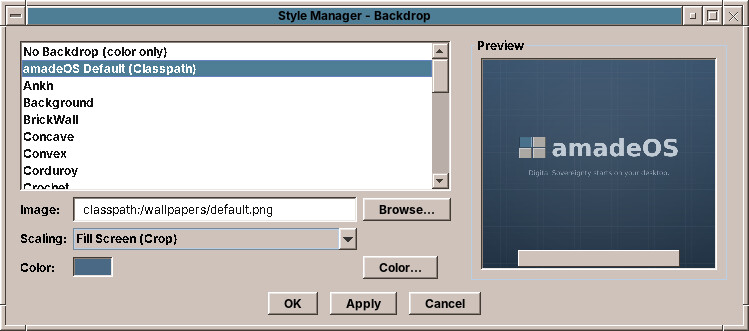
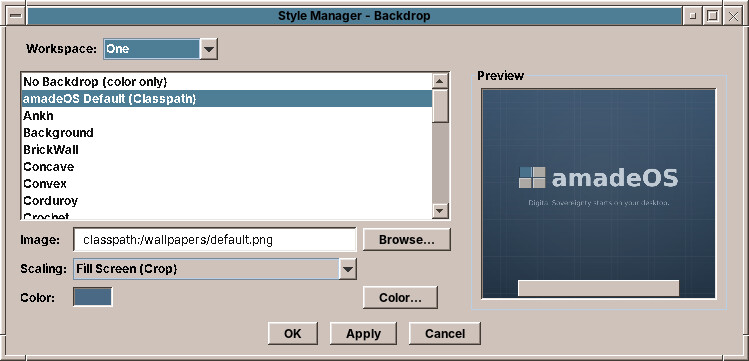
User's Handbook: renaming workspaces and a backdrop for each
Chapter 24 explains renaming a workspace (a second click on the
current workspace's button, as in CDE, or Rename in its menu), with a
new picture; chapter 32 the Workspace choice of the Backdrop control,
with a new picture of it. Chapters 22, A, C and D follow, and the
screenshot script takes the new picture.

Claude-Session: https://claude.ai/code/session_01UdQEzRAVpCUif6TmDMhSfb

diff --git a/docs/handbook/chapters/24-workspaces-and-menu.md b/docs/handbook/chapters/24-workspaces-and-menu.md
@@ -2,16 +2,33 @@
 
 ## Four workspaces
 
-amadeOS has four **workspaces**, four desktops side by side, called *One*, *Two*, *Three* and *Four*. Each holds its own windows. You might keep your mail and calendar in *One*, a letter you are writing in *Two* and a game in *Four*, and switch between them without moving a single window.
+amadeOS has four **workspaces**, four desktops side by side, called *One*, *Two*, *Three* and *Four* until you give them names of your own. Each holds its own windows and can have its own backdrop. You might keep your mail and calendar in *One*, a letter you are writing in *Two* and a game in *Four*, and switch between them without moving a single window.
 
 The four buttons in the middle of the Front Panel switch between the workspaces. Each has its own colour from the palette, and the button of the current workspace is pressed in. A new window opens in the workspace you are in.
 
 ![Workspace Two, still empty, with the windows of workspace One out of sight](images/24/workspace-two.jpg)
 
-The Front Panel and the backdrop are the same on all workspaces; only the windows change.
+The Front Panel is the same on all workspaces. The backdrop is too, until you give a workspace one of its own in the Style Manager (chapter 32): then switching to that workspace changes the backdrop with the windows.
+
+## Naming a workspace
+
+A name such as *Mail* or *Letters* tells you better than *Two* what a workspace is for. To rename one:
+
+1. Click its button, so that it is the current workspace.
+2. Click the button again. It turns into a text field with the old name selected.
+3. Type the new name and press ++enter++.
+
+![Renaming workspace Two: the button has become a text field](images/24/workspace-rename.jpg)
+
+A double click on any workspace button does both clicks at once. You can also click the **right mouse button** on a workspace button and choose **Rename**.
+
+++escape++ keeps the old name. An empty name gives the workspace back its own name, *One* to *Four* in the language of the desktop. A name can be up to 24 characters long; when it is wider than the button, the button shows its beginning with "…", and the tooltip shows it in full. The Workspace Menu (below) and the Style Manager's Backdrop control use the new names too.
 
 !!! cde "CDE heritage"
-    CDE gave every workspace its own colour from the palette, so you always see where you are; amadeOS keeps that. In CDE the workspace buttons could be renamed and their number changed; amadeOS has four fixed ones for now.
+    CDE gave every workspace its own colour from the palette, so you always see where you are; amadeOS keeps that. Renaming works as in CDE: click the current workspace's button, type, press Return. Each workspace can also have its own backdrop, as in CDE. CDE could also change the number of workspaces; amadeOS has four for now.
+
+??? hood "Under the hood"
+    The names are kept in `~/.config/amadeos/workspaces.conf` (`workspace.2.name=Letters`); only workspaces you renamed are listed there. The Front Panel publishes all four names in the root window's `_NET_DESKTOP_NAMES` property, the standard place where the window manager and other programs look for them.
 
 !!! planned "Planned"
     There is no menu entry or key yet to move a window to another workspace or to show it on all of them. A window stays in the workspace where it was opened, unless the program itself asks for another one.
@@ -26,7 +43,7 @@ Click the **right mouse button on the backdrop** to open the Workspace Menu.
 |---|---|
 | **Programs** | All installed programs, sorted by kind, the same ones as in the drawers. |
 | **New Window** | A *Terminal Emulator*, the *Text Editor* or a *File Manager* window with your home folder. |
-| **Workspaces** | Switches to *Workspace 1: One* to *Workspace 4: Four*; the current one has a tick. |
+| **Workspaces** | Switches to *Workspace 1: One* to *Workspace 4: Four*, under the names you gave them; the current one has a tick. |
 | **Window Management** | *Shuffle Up* and *Shuffle Down* bring the bottom window to the front or send the front window to the back, one at a time; *Minimize All Windows* clears the workspace, *Restore All Windows* brings them back. |
 | **Style Manager…** | Opens the Style Manager (Part IV). |
 | **Refresh Desktop** | Draws the desktop and all frames anew, if something on the screen looks wrong. |

diff --git a/docs/handbook/chapters/32-backdrop.md b/docs/handbook/chapters/32-backdrop.md
@@ -1,8 +1,14 @@
 # 32. Backdrop
 
-The **backdrop** is what you see behind the windows. **Backdrop** chooses a CDE pattern, a picture or just a colour.
+The **backdrop** is what you see behind the windows. **Backdrop** chooses a CDE pattern, a picture or just a colour, for one workspace or for all four.
 
 ![The Backdrop control](images/32/style-backdrop.jpg)
+
+## For which workspace
+
+**Workspace** at the top says whose backdrop you are changing. It opens on the workspace you are in, so *Apply* changes the backdrop you see, as in CDE. Choose another workspace to give it a backdrop of its own: the fields below show its backdrop, and *Apply* stores it without changing the screen. You see it the next time you switch to that workspace. The workspaces are listed under the names you gave them (chapter 24).
+
+**All workspaces** gives all four the same backdrop and drops the ones they had of their own.
 
 ## Choosing a backdrop
 
@@ -46,8 +52,8 @@ A picture rarely has exactly the size of the screen. **Scaling** decides what ha
 
 **Color…** chooses the backdrop colour: the colour of *No Backdrop*, and of the bars around a picture. The CDE patterns are drawn in shades of this colour, so the same pattern looks quite different in blue, sand or green, just as in CDE.
 
-!!! tip "One backdrop for all workspaces"
-    The backdrop is the same in all four workspaces. The workspace buttons in the Front Panel keep their own colours (chapter 31).
+!!! tip "A backdrop for each workspace"
+    Different backdrops make it easy to see at a glance where you are, for example a calm colour for the workspace with your mail and a photo for the one with your games. The workspace buttons in the Front Panel keep their own colours (chapter 31).
 
 ??? hood "Under the hood"
-    The backdrop is stored in `~/.config/amadeos/wallpaper.conf`: the picture, the scaling and the colour. *Apply* draws it on the X11 root window, the screen behind all windows, and the window manager draws it there again at every login.
+    The backdrops are stored in `~/.config/amadeos/wallpaper.conf`: the picture, the scaling and the colour for all workspaces (`wallpaper`, `mode`, `color`), and for each workspace with a backdrop of its own the same three under `workspace.2.` and so on. *Apply* draws the backdrop on the X11 root window, the screen behind all windows, if it belongs to the workspace you are in. The window manager reads the file at every workspace switch, draws each backdrop once and then only swaps them, so switching stays quick.

diff --git a/docs/handbook/chapters/c-cde-heritage.md b/docs/handbook/chapters/c-cde-heritage.md
@@ -6,7 +6,7 @@ amadeOS follows the **Common Desktop Environment** (CDE), the desktop of the lar
 |---|---|---|---|
 | Login screen (`amadeos-dm`) | `dtlogin` | Language and session are fields, not hidden in an *Options* menu; keyboard layout and time zone are chosen there too. | 20 |
 | Window frames (`amadeos-wm`) | `dtwm` | A close button on the right; no *Move* and *Size* in the window menu. | 23 |
-| Workspaces | `dtwm` workspaces | Four fixed workspaces; they cannot be renamed yet. | 24 |
+| Workspaces | `dtwm` workspaces | Four workspaces, renamed as in CDE by clicking the current one's button; each can have its own backdrop. Their number is fixed. | 24, 32 |
 | Workspace Menu | The `dtwm` root menu | Built from the installed programs instead of a hand-edited `dtwmrc`. | 24 |
 | Front Panel (`amadeos-panel-cde`) | The Front Panel | Drawers (CDE's *subpanels*) fill themselves from the installed programs. New: the Games drawer, the status slot, the language button. | 22 |
 | Lock and EXIT | Lock and EXIT of the Front Panel | ++super+l++ locks; EXIT also offers *Reboot* and *Shut Down*. | 26 |

diff --git a/docs/handbook/chapters/a-keyboard-and-mouse.md b/docs/handbook/chapters/a-keyboard-and-mouse.md
@@ -29,6 +29,7 @@ The keys and mouse actions of the desktop, in one place. The keys of each progra
 | **The edges and corners of a frame** | Drag: resizes the window (23) | — | — |
 | **Inside a window** | Select, click, drag | Pastes the text selected last | The program's context menu, if it has one |
 | **A slot of the Front Panel** | Starts its program; the arrow above opens the drawer (22) | — | On the clock: analog or digital (22) |
+| **A workspace button** | Switches to the workspace; on the current one: renames it (24) | — | Rename (24) |
 | **A minimised window's icon** | Brings the window back (23) | — | — |
 
 On a touchpad, the right button is a click at the bottom right or with two fingers; the middle button is often a click with three fingers, or both buttons at once (chapter 21). Left-handed users swap the buttons in the Style Manager's *Mouse* control (chapter 33).

diff --git a/docs/handbook/chapters/22-front-panel.md b/docs/handbook/chapters/22-front-panel.md
@@ -27,7 +27,7 @@ The middle of the panel holds the controls of the session:
 
 - **The padlock** at the top left locks the screen (chapter 26).
 - **The language button** under it, with the code of the current language such as *EN*, switches the language (chapter 25).
-- **The four buttons One to Four** switch between the workspaces. Each has its workspace's colour; the current one is pressed in (chapter 24).
+- **The four buttons One to Four** switch between the workspaces. Each has its workspace's colour; the current one is pressed in. A second click on the current one renames its workspace (chapter 24).
 - **The busy light**, the slit at the top right, and under it **EXIT**, which logs out, restarts or shuts down (chapter 26).
 
 ## The right side

diff --git a/docs/handbook/chapters/d-glossary.md b/docs/handbook/chapters/d-glossary.md
@@ -120,7 +120,7 @@ The technical words of this book, in alphabetical order, with the chapter that e
 :   The program that draws the window frames and moves, resizes and arranges the windows; on amadeOS `amadeos-wm` (chapters 23 and 61).
 
 **Workspace**
-:   One of four desktops, each with its own windows (chapter 24).
+:   One of four desktops, each with its own windows, its own name and, if you like, its own backdrop (chapters 24 and 32).
 
 **X11, Xorg**
 :   The display system of amadeOS: X11 is the protocol, Xorg the program that owns screen, keyboard and mouse (chapter 61).
